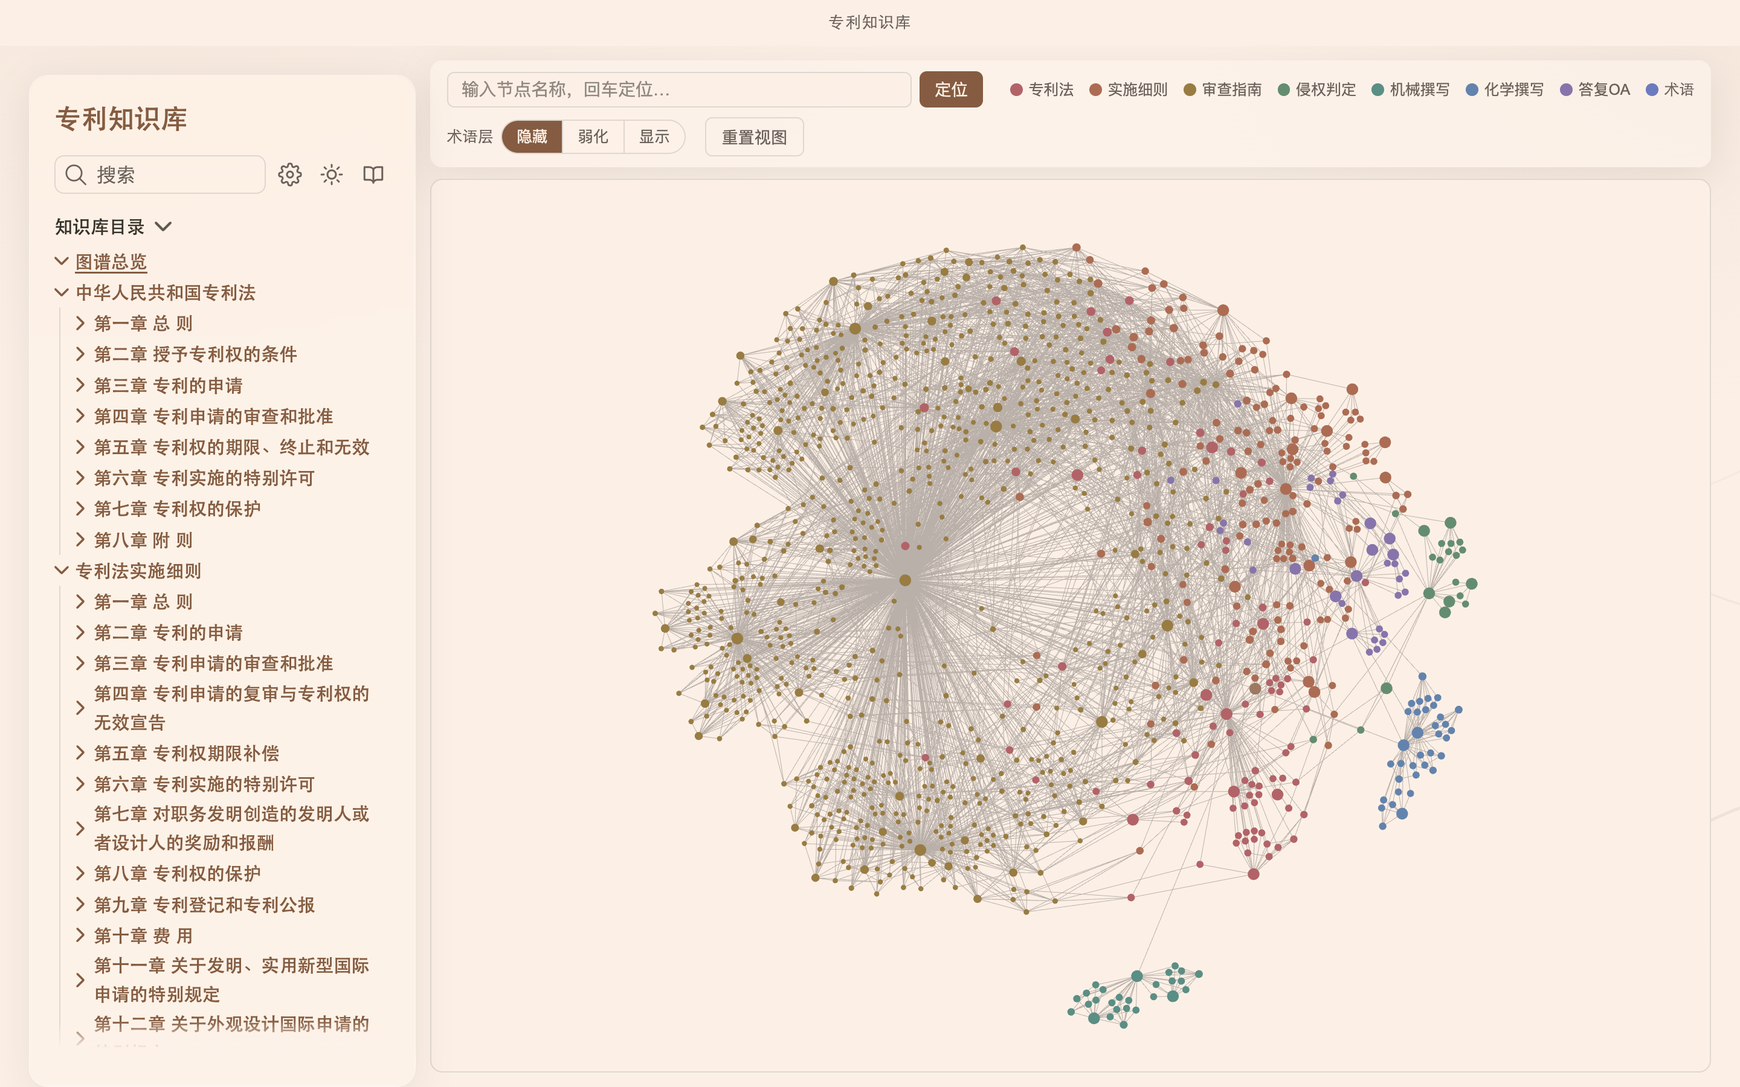
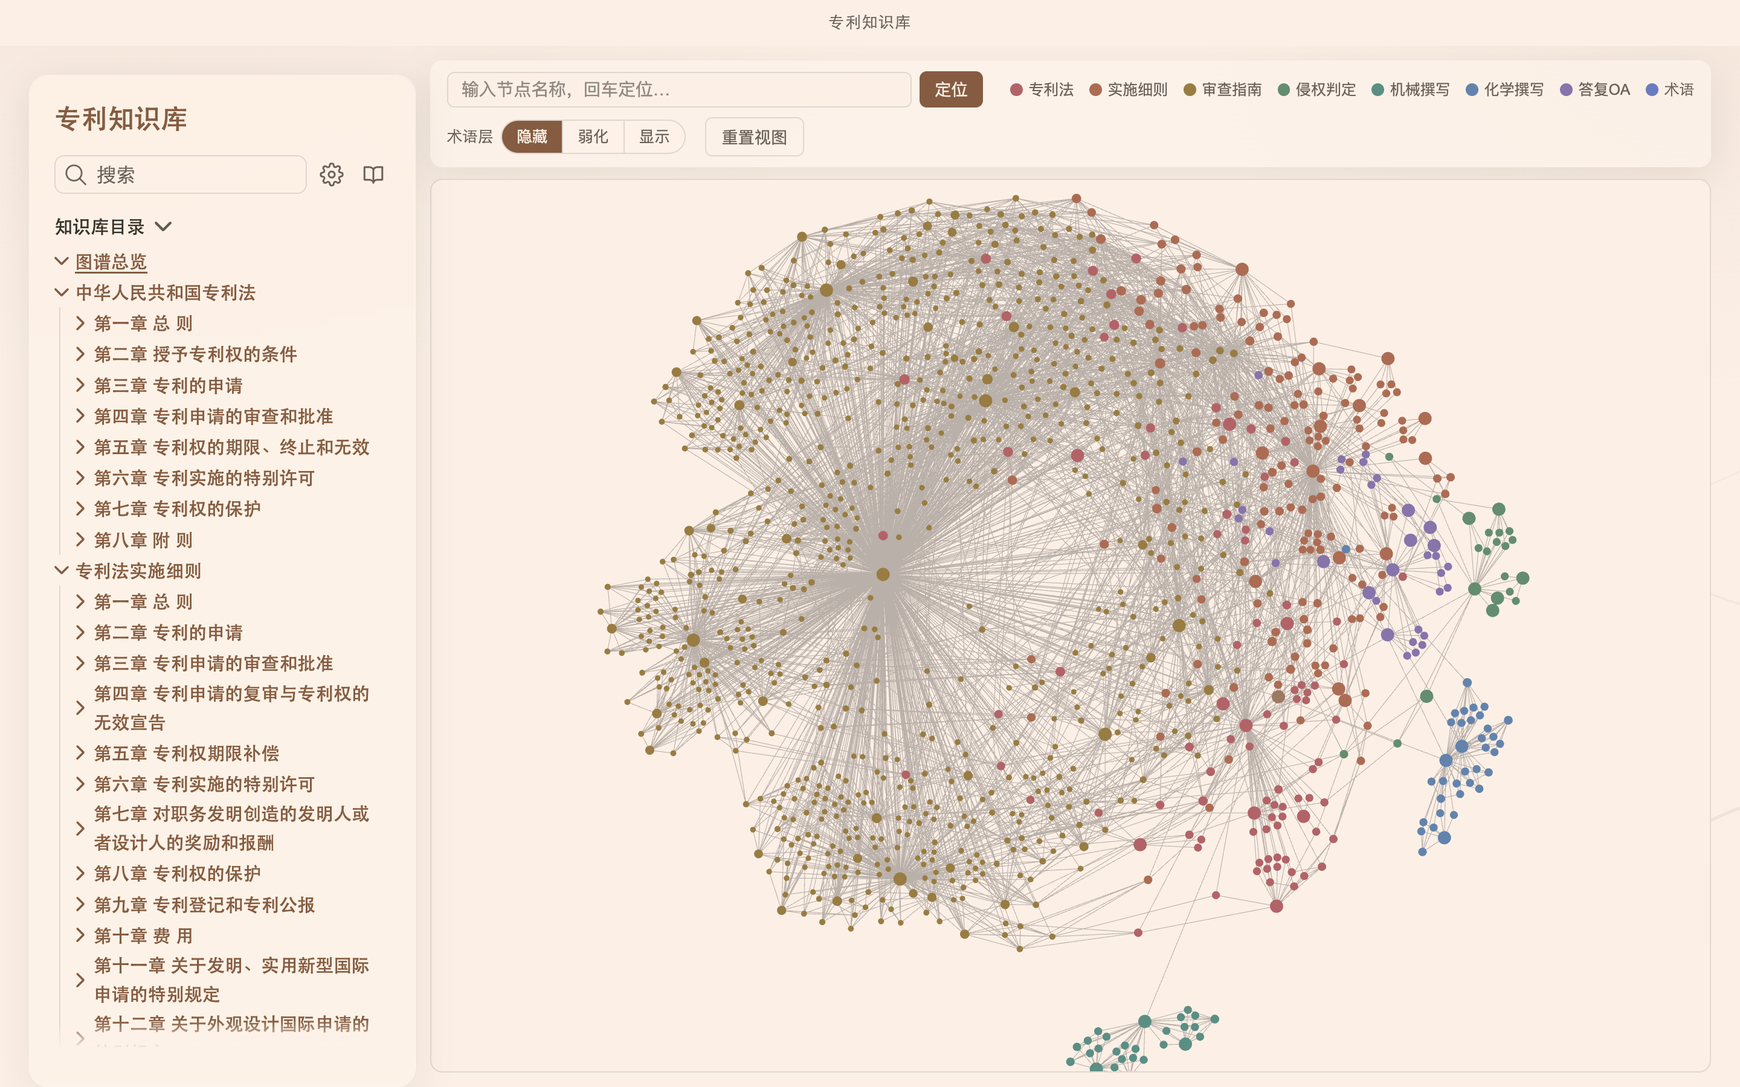
fix: 删除明暗快捷钮、三栏头部对齐与图谱初始视口收纳全部节点
- 左栏明暗快捷钮删除（8 文件清理，齿轮/阅读钮保留，设置抽屉明暗分段控件为唯一入口）；smoke 步骤 13 与矩阵脚本改走分段控件达成同一断言，并把渐变判据升级到 View Transitions 一步跳变模型
- 三栏头部参差 13px：侧栏玻璃卡悬浮补偿（0.75rem+1px 描边）在中栏无对应——页头 margin-top 补齐至 calc(2.25rem+1px)，三态×双主题六组实测极差 0.0px
- 图谱初始遮挡：localGraph 漏配 zoomToFit 致从未执行取景，且 fit 算式不计节点半径、留白用世界坐标——补配置+按节点外缘取包围盒+屏幕像素留白+小图 k≤1 不放大；四档页面双主题裁切墨迹归零，主题守恒/导航销毁时序/交互/总览页四红线零回归
- smoke 24/24、单测 178/178、审计基线随新界面更新

Changed region(s): [[0.3438, 0.1867, 0.875, 0.8711], [0.5938, 0.8711, 0.7188, 0.9956], [0.1562, 0.1556, 0.1875, 0.1867]]

diff --git a/quartz-kb/quartz/styles/custom.scss b/quartz-kb/quartz/styles/custom.scss
@@ -898,7 +898,7 @@ pre:hover > .clipboard-button {
 //
 // 纪律一（防悬停发滞）：已自带 140ms 交互过渡的控件不进本清单——正文链接 a
 //   （现为「合并条」：本节 a 那条把 color 140ms 与 background-color 260ms 一次列全，
-//   不再是纯豁免）、目录树条目、TOC 条目、左栏三枚快捷钮（第十四节）、
+//   不再是纯豁免）、目录树条目、TOC 条目、左栏两枚快捷钮（第十四节）、
 //   设置页分段控件 .kb-settings-seg button 与主题卡 .kb-theme-card。
 // 纪律一之二（组件内已列全，本清单**永不收录**）：下列元素的过渡事实源在其组件
 //   scss，且已按 R5 在那一条内把 260ms 的颜色项列全，本节重复收录即会互相吃掉——
@@ -1347,8 +1347,20 @@ ul.toc-content.overflow > li > a {
   }
 
   // 正文页头沿用原有居中规则，但压缩默认 6rem 顶部留白。
+  //
+  // 取值 = 三栏首元素同基线（v14 面包屑对齐修复）。左右栏首元素的视口顶距由
+  // 第三节的三段叠加而成，缺一不可：
+  //   0.75rem 外缩（margin-top，与 sticky 的 top: calc(0.75rem + var(--titlebar-h))
+  //   配对做零跳动吸附）+ 1px 玻璃描边（glass-panel-host）+ 1.5rem 内边距
+  //   （本文件 $desktop 段把 base 的 $topSpacing 6rem 压到此值）= 37px@16px。
+  // 原值 1.5rem 只抵到其中的内边距一段，面包屑遂比左右栏首元素高出 13px——
+  // 实测 1280×720 Web 端：面包屑 top 24 vs 左栏站名 top 37 / 右栏图谱卡 top 37，
+  // 这就是「三栏头部参差」的全部来源（面包屑自身的 margin-top 12px 与本条相邻
+  // 外边距合并，取较大者，故改本条即等于改面包屑的实际起点）。
+  // --titlebar-h 不进本式：第十三节把它记在 body 的 padding-top 上，三列一视同仁，
+  // 不产生列间差——桌面壳下三列同步下移 38px，本式的差值恒等关系不变。
   body:not([data-slug="0-图谱总览/index"]) #quartz-body .center > .page-header {
-    margin-top: 1.5rem;
+    margin-top: calc(2.25rem + 1px);
   }
 
   body:not([data-slug="0-图谱总览/index"]) #quartz-body .center > .page-header .article-title {
@@ -1644,11 +1656,13 @@ body[data-slug="设置/index"] #quartz-body .center > .page-footer {
 }
 
 // ============================================================
-// 十四、左栏三钮统一（需求①：图标风格 / 间距 / 悬停背景态三项全改）
-// 三枚按钮分处三个组件（SettingsButton→settings.scss、同组件内的明暗钮、
+// 十四、左栏快捷钮统一（需求①：图标风格 / 间距 / 悬停背景态三项全改）
+// 原为三枚，分处三个组件（SettingsButton→settings.scss、同组件内的明暗钮、
 // ReaderMode→readermode.scss），此前各写各的几何：20×32 细长条 + svg 绝对定位，
 // 命中区窄、悬停无反馈、配色链路不一（currentColor 与直赋 --darkgray 并存）。
-// 本节把三者收敛为同一套几何与状态色。
+// 本节把它们收敛为同一套几何与状态色。
+// v14：明暗快捷钮（.kb-theme-toggle）已删除，本节现覆盖齿轮与阅读模式钮两枚；
+// 下方尺寸定稿的代价核算按当时的三钮记，保留原文以存账，不再重算。
 //
 // 覆盖依据（不是靠特异性，而是靠拼装序）：componentResources.ts 以
 // joinStyles(theme, googleFonts, ...componentResources.css, styles) 拼装，
@@ -1665,14 +1679,14 @@ body[data-slug="设置/index"] #quartz-body .center > .page-footer {
   --kb-quick-gap: 0.4rem;
 }
 
-// .kb-quick 是齿轮与明暗钮的直接容器（settings.scss 原写死 0.55rem），
-// 接回同一变量，三钮间距才真正等距。
+// .kb-quick 是齿轮的直接容器（settings.scss 原写死 0.55rem，v14 删除明暗钮后
+// 容器内只剩齿轮一枚，本条已不再产生间距）；保留接回同一变量，是因为
+// quartz.layout.ts 两处 Flex 消费的也是它——齿轮与阅读模式钮的间距仍由此变量定。
 .kb-quick {
   gap: var(--kb-quick-gap, 0.4rem);
 }
 
 .kb-settings-btn,
-.kb-theme-toggle,
 .readermode {
   width: 28px;
   height: 28px;

diff --git a/quartz-kb/quartz/components/scripts/settings.inline.ts b/quartz-kb/quartz/components/scripts/settings.inline.ts
@@ -18,7 +18,7 @@
 // 取色，顺序反了会读到上一套主题的色值。
 //
 // 切换的「同帧」纪律（v13，见下方 commitTheme 与 custom.scss 第十七节）：
-// 一切**运行期**的主题写入（明暗快捷钮 / 设置页明暗段 / 主题卡 / 跟随系统翻转 /
+// 一切**运行期**的主题写入（设置页明暗段 / 主题卡 / 跟随系统翻转 /
 // IPC 权威态纠正）必须经 commitTheme 提交，绝不直接调 applyThemeMode / applyStyle
 // / setTheme —— 直接调等于绕开整页叠化，那一次切换会退回「各区域各自渐变」的观感。
 // 唯一例外是文件末尾的首帧应用块（此时页面尚在首屏渲染，叠化只会让启动闪一下）。
@@ -375,36 +375,20 @@ applyThemeMode(initial.themeMode)
 
 // ---------- UI 绑定（nav 后） ----------
 //
-// 两个独立 if 块：快捷钮每页都有，设置页控件仅设置页有——
-// 任一块的元素缺失不得影响另一块（v8 的单块 early-return 曾把两者绑成一荣俱荣）。
+// 设置页控件仅设置页有，故整块包在 if 内；uiReady 的置位必须在 if 之外——
+// 元素缺失不得连累它（v8 的单块 early-return 曾把不相干的绑定绑成一荣俱荣）。
+//
+// v14：左栏明暗快捷钮已删除（用户裁决），原「块一」的点击绑定连同其
+//「取反 → 落固定值 → 脱离跟随系统」专属分支一并移除。运行期改主题的入口
+// 现只剩两条，且都保持既有实现不变：设置页分段控件 / 主题卡（下方块内），
+// 与「跟随系统」下的 onSystemChange 翻转；两条仍共用 commitTheme 这一提交口。
 
 document.addEventListener("nav", () => {
   // 首帧之后的一切主题写入都走整页叠化（见 commitTheme 的 uiReady 注）。
-  // 置于 nav 回调最前：两个 if 块中的任一元素缺失都不得影响这一句。
+  // 置于 nav 回调最前：下方 if 块的元素缺失都不得影响这一句。
   uiReady = true
 
-  // ── 块一：左栏明暗快捷钮 ──────────────────────────────
-  const toggle = document.querySelector<HTMLElement>(".kb-theme-toggle")
-  if (toggle) {
-    // 读当前实际亮暗取反 → 落固定值（脱离「跟随系统」）→ 全链路应用。
-    // 日/月图标显隐纯 CSS 驱动（:root[saved-theme] 选择器），此处不写 JS。
-    // 落盘留在叠化之外（无视觉效果）；applyThemeMode 与设置页回显同处一次叠化回调，
-    // 否则回显那几个 is-active 的着色会被算进旧快照、先于叠化闪一下。
-    const onToggleClick = () => {
-      const next: ThemeMode = readSavedTheme() === "dark" ? "light" : "dark"
-      const s = loadSettings()
-      s.themeMode = next
-      saveSettings(s)
-      commitTheme(() => {
-        applyThemeMode(next)
-        syncSettingsPage()
-      })
-    }
-    toggle.addEventListener("click", onToggleClick)
-    window.addCleanup(() => toggle.removeEventListener("click", onToggleClick))
-  }
-
-  // ── 块二：设置页控件（事件委托） ──────────────────────
+  // ── 设置页控件（事件委托） ────────────────────────────
   const page = document.querySelector<HTMLElement>(".kb-settings-page")
   if (page) {
     const chooseDir = async (): Promise<void> => {
@@ -527,7 +511,9 @@ function switchPane(page: HTMLElement, pane: string): void {
 
 /**
  * 设置页回显：选中态（is-active + aria-checked）与批注目录文本。
- * 设置页不存在时静默返回——快捷钮改主题后也调它，两条路径共用一份回显逻辑。
+ * 设置页不存在时静默返回：调用点虽都在 `if (page)` 内，chooseDir 却是 await
+ * 原生目录选择框之后才回调的——用户在选择期间 SPA 导航离开设置页时，这一句
+ * 就是唯一的兜底（v14 删除左栏快捷钮后，该守卫的理由只剩这一条，故就地注明）。
  */
 function syncSettingsPage(): void {
   const page = document.querySelector<HTMLElement>(".kb-settings-page")

diff --git a/quartz-kb/quartz/components/SettingsButton.tsx b/quartz-kb/quartz/components/SettingsButton.tsx
@@ -7,16 +7,19 @@ import { FullSlug, resolveRelative } from "../util/path"
 import { SETTINGS_SLUG } from "../util/appPages"
 
 /**
- * 左栏快捷区（v9）：齿轮 + 明暗快捷钮，与搜索 / 阅读模式同排。
+ * 左栏快捷区（v9）：齿轮设置入口，与搜索 / 阅读模式同排。
  *
  * 齿轮是 `<a>` 而非 `<button>`：设置由 v8 的居中模态改为独立设置页
  * （content/设置/index.md + SettingsPage），跳转交给 SPA 路由——
  * spa.inline.ts 对点击目标做 `closest("a")` 拦截，本站内链天然走无刷新导航，
  * 无需在 settings.inline.ts 里写任何跳转代码。
  *
- * 明暗快捷钮（用户裁决 2）：点击即在浅/深之间翻转并脱离「跟随系统」；
- * 日/月两枚图标同时输出，显隐由 CSS 按 `:root[saved-theme]` 决定，脚本不参与，
- * 故首帧（prescript 落属性之后、DOM 就绪之前）就已是正确形态，无闪烁。
+ * 明暗快捷钮已删除（v14 用户裁决）：左栏不再提供明暗翻转入口，明暗模式的
+ * 唯一入口是设置页抽屉内的分段控件（浅色 / 深色 / 跟随系统，见 SettingsPage）。
+ * 随之删除的还有 settings.inline.ts 的「块一」点击绑定与 settings.scss 的
+ * 日/月图标显隐规则——快捷区现只剩齿轮一枚，容器类名 kb-quick 保留不变
+ *（它是「快捷区」而非「三钮区」，custom.scss 第十四节仍按同一套几何统一齿轮
+ * 与阅读模式钮）。
  *
  * 本组件承载 settings.inline.ts 的 beforeDOMLoaded——它同时是全站主题的
  * 首帧应用者，必须随「每页都有」的组件注入（SettingsPage 只在设置页渲染，
@@ -47,40 +50,6 @@ const SettingsButton: QuartzComponent = ({ fileData, displayClass }: QuartzCompo
           <path d="M19.4 15a1.65 1.65 0 0 0 .33 1.82l.06.06a2 2 0 1 1-2.83 2.83l-.06-.06a1.65 1.65 0 0 0-1.82-.33 1.65 1.65 0 0 0-1 1.51V21a2 2 0 1 1-4 0v-.09A1.65 1.65 0 0 0 9 19.4a1.65 1.65 0 0 0-1.82.33l-.06.06a2 2 0 1 1-2.83-2.83l.06-.06a1.65 1.65 0 0 0 .33-1.82 1.65 1.65 0 0 0-1.51-1H3a2 2 0 1 1 0-4h.09A1.65 1.65 0 0 0 4.6 9a1.65 1.65 0 0 0-.33-1.82l-.06-.06a2 2 0 1 1 2.83-2.83l.06.06a1.65 1.65 0 0 0 1.82.33H9a1.65 1.65 0 0 0 1-1.51V3a2 2 0 1 1 4 0v.09a1.65 1.65 0 0 0 1 1.51 1.65 1.65 0 0 0 1.82-.33l.06-.06a2 2 0 1 1 2.83 2.83l-.06.06a1.65 1.65 0 0 0-.33 1.82V9a1.65 1.65 0 0 0 1.51 1H21a2 2 0 1 1 0 4h-.09a1.65 1.65 0 0 0-1.51 1z" />
         </svg>
       </a>
-
-      <button class="kb-theme-toggle" type="button" aria-label="切换明暗" title="切换明暗">
-        <svg
-          class="kb-icon-sun"
-          xmlns="http://www.w3.org/2000/svg"
-          width="20"
-          height="20"
-          viewBox="0 0 24 24"
-          fill="none"
-          stroke="currentColor"
-          stroke-width="1.8"
-          stroke-linecap="round"
-          stroke-linejoin="round"
-          aria-hidden="true"
-        >
-          <circle cx="12" cy="12" r="4.2" />
-          <path d="M12 2.2v2.4M12 19.4v2.4M4.2 12H1.8M22.2 12h-2.4M6.5 6.5 4.8 4.8M19.2 19.2l-1.7-1.7M17.5 6.5l1.7-1.7M4.8 19.2l1.7-1.7" />
-        </svg>
-        <svg
-          class="kb-icon-moon"
-          xmlns="http://www.w3.org/2000/svg"
-          width="20"
-          height="20"
-          viewBox="0 0 24 24"
-          fill="none"
-          stroke="currentColor"
-          stroke-width="1.8"
-          stroke-linecap="round"
-          stroke-linejoin="round"
-          aria-hidden="true"
-        >
-          <path d="M20.6 13.3A8.6 8.6 0 1 1 10.7 3.4a6.7 6.7 0 0 0 9.9 9.9z" />
-        </svg>
-      </button>
     </div>
   )
 }

diff --git a/quartz-kb/quartz/components/scripts/graph.inline.ts b/quartz-kb/quartz/components/scripts/graph.inline.ts
@@ -104,6 +104,11 @@ const DIMMED_ALPHA = 0.15
 // 避免高度数枢纽节点吞掉版面
 const MAX_NODE_RADIUS = 13
 
+// zoomToFit 的视口留白（**屏幕像素**，非世界坐标）。取 12px：略大于
+// MAX_NODE_RADIUS 之外的描边与抗锯齿余量，使最外圈节点与卡片边缘明显分离，
+// 又不至于在 250px 高的右栏小卡里吃掉可观的画面。见 computeFitTransform。
+const FIT_PAD_PX = 12
+
 // ---------- 首帧预热参数（bug#3：图谱打开瞬间节点跳变）----------
 // 预热目标 alpha：与下方 tick 回调里 zoomToFit 的触发阈值同值，
 // 二者必须一致——预热达标即等价于「tick 回调本会触发入框」，故可直接置完成标志。
@@ -1243,19 +1248,31 @@ async function createGraphInstance(
     let maxY = -Infinity
     for (const n of graphData.nodes) {
       if (n.x === undefined || n.y === undefined) continue
-      if (n.x < minX) minX = n.x
-      if (n.x > maxX) maxX = n.x
-      if (n.y < minY) minY = n.y
-      if (n.y > maxY) maxY = n.y
+      // 包围盒取「节点外缘」而非圆心（v14 修）：圆心入框不等于圆入框。半径由
+      // nodeRadius 按层级 + 度数算出，最大可达 MAX_NODE_RADIUS(13)，旧实现每侧
+      // 因此少留整整一个节点的量，表现为贴边节点只露半个圆——本轮缺陷本体。
+      const r = nodeRadius(n)
+      if (n.x - r < minX) minX = n.x - r
+      if (n.x + r > maxX) maxX = n.x + r
+      if (n.y - r < minY) minY = n.y - r
+      if (n.y + r > maxY) maxY = n.y + r
     }
     if (!isFinite(minX) || !isFinite(minY)) return null
-    const PAD = 40
-    const bw = maxX - minX + PAD * 2
-    const bh = maxY - minY + PAD * 2
-    const k = Math.max(
-      scaleExtentRange[0],
-      Math.min(scaleExtentRange[1], 0.9 * Math.min(width / bw, height / bh)),
-    )
+    const bw = Math.max(maxX - minX, 1)
+    const bh = Math.max(maxY - minY, 1)
+    // 留白改屏幕像素语义（v14 修）：旧实现把 PAD=40 加在**世界坐标**的包围盒上，
+    // 屏幕上的实际留白是 PAD*k——k 小时几近于零，等于没有边距。现改为先在屏幕侧
+    // 扣掉两侧留白、再解 k，任何缩放下留白恒为 FIT_PAD_PX 像素。
+    const availW = Math.max(width - FIT_PAD_PX * 2, 1)
+    const availH = Math.max(height - FIT_PAD_PX * 2, 1)
+    // 上界（v14 增）：非全量图不放大过 1。局部图只有一跳邻居，三五个节点的小图
+    // 若按可用区放大，节点会胀满整卡、与相邻页面的图观感失衡；夹在 1 即维持
+    // 「小图保持原尺寸、只在装不下时才缩」。全量图节点以千计，k 恒远小于 1，
+    // 该夹紧对其不产生任何影响（图谱总览专页与全局弹窗的观感因此不变）。
+    const maxFit = fullGraph ? scaleExtentRange[1] : Math.min(scaleExtentRange[1], 1)
+    // 旧实现的 0.9 安全系数在此删除：它原本是唯一有效的边距来源，现由
+    // FIT_PAD_PX 精确承担，再乘 0.9 会额外缩掉一成、白白浪费卡面。
+    const k = Math.max(scaleExtentRange[0], Math.min(maxFit, Math.min(availW / bw, availH / bh)))
     // 节点渲染坐标 = 力导坐标 + 画布半宽/半高偏移，包围盒中心按同一偏移换算
     const cx = (minX + maxX) / 2 + width / 2
     const cy = (minY + maxY) / 2 + height / 2

diff --git a/quartz-kb/quartz/components/styles/settings.scss b/quartz-kb/quartz/components/styles/settings.scss
@@ -1,6 +1,6 @@
 @use "../../styles/variables.scss" as *;
 
-// 设置（v9）：左栏快捷区（齿轮 + 明暗钮）+ 独立设置页正文。
+// 设置（v9）：左栏快捷区（齿轮）+ 独立设置页正文。
 //
 // v8 的居中模态（遮罩 + 面板 + 两条 keyframes + 字体下拉字段）已整体删除——
 // 设置改为独立页面（content/设置/index.md + SettingsPage.tsx），不再有浮层，
@@ -10,8 +10,12 @@
 // custom.scss 第十五节；设置页抽屉只是常规流里的一根栅格列（sticky 自成层叠上下文，
 // 但不声明 z-index、不与任何浮层争层），故本文件的层位记账仍为零。
 //
-// 左栏两枚按钮与阅读按钮（readermode.scss）同构：20×32 尺寸、20px SVG 绝对居中、
-// darkgray 描边；齿轮是 <a>（SPA 跳转设置页），明暗钮是 <button>。
+// 左栏齿轮与阅读按钮（readermode.scss）同构：20×32 尺寸、20px SVG 绝对居中、
+// darkgray 描边；齿轮是 <a>（SPA 跳转设置页）。
+// v14：同排的明暗快捷钮（.kb-theme-toggle）连同日/月图标显隐规则已删除，
+// 明暗模式的唯一入口移交设置页抽屉内的分段控件；本文件下方的
+//「几何 / 悬停 / 按下」三条现只服务齿轮一枚（几何最终值由 custom.scss
+// 第十四节统一为 28×28，此处保留基线值不动）。
 
 // ---------- 左栏快捷区（与 .search / .readermode 同排） ----------
 
@@ -22,8 +26,7 @@
   flex-shrink: 0;
 }
 
-.kb-settings-btn,
-.kb-theme-toggle {
+.kb-settings-btn {
   cursor: pointer;
   padding: 0;
   position: relative;
@@ -57,22 +60,6 @@
 .kb-settings-btn:active svg {
   transform: rotate(30deg);
   transition: transform 0.12s ease;
-}
-
-.kb-theme-toggle:active svg {
-  transform: scale(0.88);
-  transition: transform 0.12s ease;
-}
-
-// 日/月显隐纯 CSS 驱动：脚本只落 saved-theme 属性，不碰图标——
-// 首帧（prescript 落属性、DOM 尚未就绪）即已是正确形态，无图标闪跳。
-// 呈现「当前态」：浅色显日、深色显月（与 quartz 内置 Darkmode 同一约定）。
-:root[saved-theme="dark"] .kb-icon-sun {
-  display: none;
-}
-
-:root:not([saved-theme="dark"]) .kb-icon-moon {
-  display: none;
 }
 
 // ---------- 设置页外壳（抽屉 + 面板区双栏） ----------
@@ -181,7 +168,7 @@
 
 // 分类钮与左栏目录树条目同一套状态色：hover 走 --glass-hover-wash，
 // 选中走 --nav-active-wash 底 + --secondary 文字；过渡取 140ms 档，
-// 与全站高频交互控件（分段控件、主题卡、三枚快捷钮）一致。
+// 与全站高频交互控件（分段控件、主题卡、左栏两枚快捷钮）一致。
 .kb-settings-cat {
   display: block;
   width: 100%;

diff --git a/quartz-kb/quartz.layout.ts b/quartz-kb/quartz.layout.ts
@@ -35,6 +35,11 @@ const graphConfig = {
     opacityScale: 1,
     showTags: false,
     focusOnHover: true,
+    // v14：局部图此前漏配本项，落回 Graph.tsx 默认的 false——相机恒为 zoomIdentity，
+    // 节点按「力导坐标 + 画布半宽/半高」直接下笔，一跳邻居一多就铺出 250px 的卡外，
+    // 右/下缘节点被 .graph-outer 的 overflow:hidden 裁成半个圆。开启后走与全局图
+    // 同一条路径：先同步预热力导（首帧即成形，无跳变），再无过渡地落入框相机。
+    zoomToFit: true,
     // V4-B1：排除链接全站的宿主页节点（目录 index 页的 simplifySlug 带尾斜杠）
     excludeSlugs: ["0-图谱总览/", "设置/"],
   },
@@ -68,7 +73,8 @@ export const sharedPageComponents: SharedLayout = {
   // SettingsPage（v9）：独立设置页正文，仅 设置/index 页渲染（同 GraphExplorer 模式）。
   // v8 的居中模态已整体废弃——设置不再是浮层，故原「遮罩挂 document.body 规避
   // left 栏层叠上下文」的机制连同 z-850 层位一并不复存在；左栏只留
-  // SettingsButton（齿轮 <a> 跳本页 + 明暗快捷钮）
+  // SettingsButton（齿轮 <a> 跳本页；v14 已删除同排的明暗快捷钮，
+  // 明暗模式改由设置页抽屉内的分段控件独占入口）
   afterBody: [
     // TitleBar 置于首位：桌面自绘标题条（fixed 定位、CSS 门控 html[data-desktop]），
     // DOM 序首位便于排查层叠顺序问题
